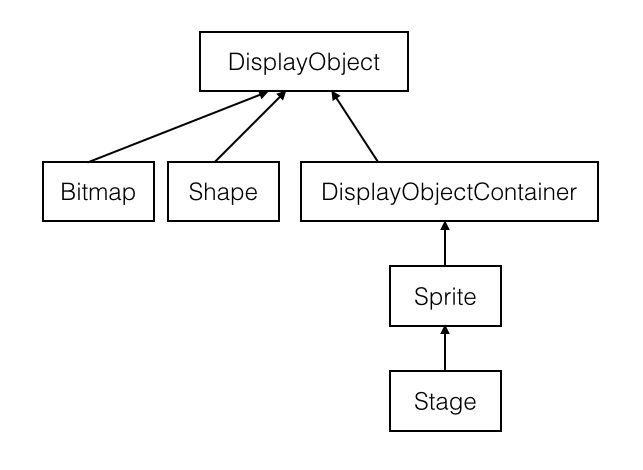
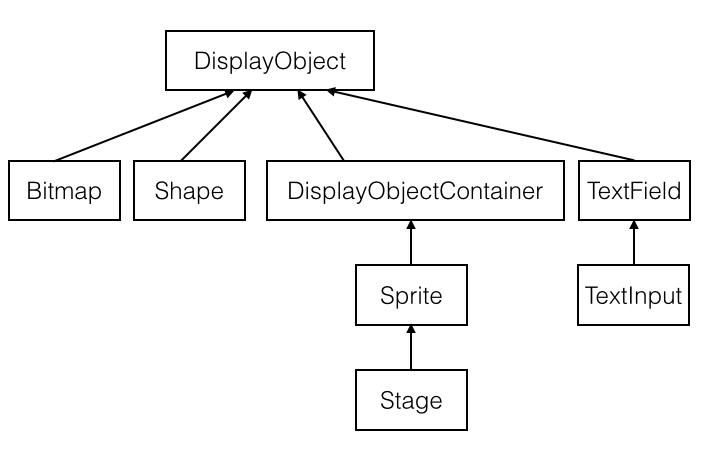
done 5-1 5-2 file

diff --git a/docs/core/5-1-display-about.md b/docs/core/5-1-display-about.md
@@ -1,8 +1,12 @@
 #Lark Core 编程指南 - 显示编程的基础知识
 
 
-如何有效的组织画面中的渲染元素是考验一款框架非常重要的评价标准之一。在Lark中，所有能够被用户看到的对象均被封装为显示对象。例如常用的位图，矢量图等。而在此基础之上更为重要的是如何处理整个环境的渲染流程。所以除了显示对象部分，Lark中还设计了显示列表，用户整体渲染工作。
+如何有效的组织画面中的渲染元素是考验一款框架非常重要的评价标准之一。在Lark中，我们创建了显示对象的概念。此基础之上更为重要的是如何处理整体渲染流程。所以除了显示对象部分，Lark中还设计了显示列表，用来帮助我们渲染整个画面。
+
+显示对象：可以在舞台上显示的对象。可以显示的对象包含图片、文字和矢量图等。而另外一种是真实存在但无法看见的，我们称之为**显示对象容器**。
+
+显示列表：一个纯树状数据结构。通过显示列表可以表示显示对象的层级关系和嵌套关系。同时显示列表也被表示是否参与到渲染流程中。
 
 Lark在显示对象设计中将不同类型显示元素进行拆分，降低其耦合度。所有的显示对象都继承自一个名称为DisplayObject的类。该类中封装了显示对象应有的共同行为于特征。
 
-针对显示列表，Lark将显示对象中的层级关系，嵌套关系组织为显示列表。当显示对象被添加到显示列表中时，该对象可以被显示在画面中。反之，该显示对象不参与画面渲染，而驻留于内存当中。
+在显示列表中，当一个显示对象被添加到显示列表中时，该对象可以被显示在画面中。反之，该显示对象不参与画面渲染，而驻留于内存当中。

diff --git a/docs/core/5-2-display-class.md b/docs/core/5-2-display-class.md
@@ -1,7 +1,7 @@
 #Lark Core 编程指南 - 核心显示类
 
 
-Lark中一共封装了6个显示相关的核心类，具体继承结构如下：
+Lark中一共封装了8个显示相关的核心类，具体继承结构如下：
 
 ![display class](image/5-2-1.png)
 
@@ -13,5 +13,7 @@ Lark中一共封装了6个显示相关的核心类，具体继承结构如下：
 | DisplayObjectContainer | 显示对象容器类基类，所有显示对象容器均继承此类 |
 | Sprite                 | 轻量级显示容器                             |
 | Stage                  | 舞台类                                    |
+| TextField              | 文本类                                    |
+| TextInput              | 输入文本类                                 |
 
 在后面的章节中，我们会一次介绍各个显示对象的概念及使用方法。

diff --git a/docs/core/README.md b/docs/core/README.md
@@ -16,8 +16,8 @@
 	* [事件对象池优化]()
 	* [事件示例]()
 5. [显示编程](5-0-display.md)
-	* [显示编程的基础知识](5-1-display-about.md)(editing)
-	* [核心显示类](5-2-display-class.md)(editing)
+	* [显示编程的基础知识](5-1-display-about.md)(done)
+	* [核心显示类](5-2-display-class.md)(done)
 	* [显示列表方法的优点]()(editing)
 	* [显示对象示例]()(editing)
 6. [使用显示对象]()
